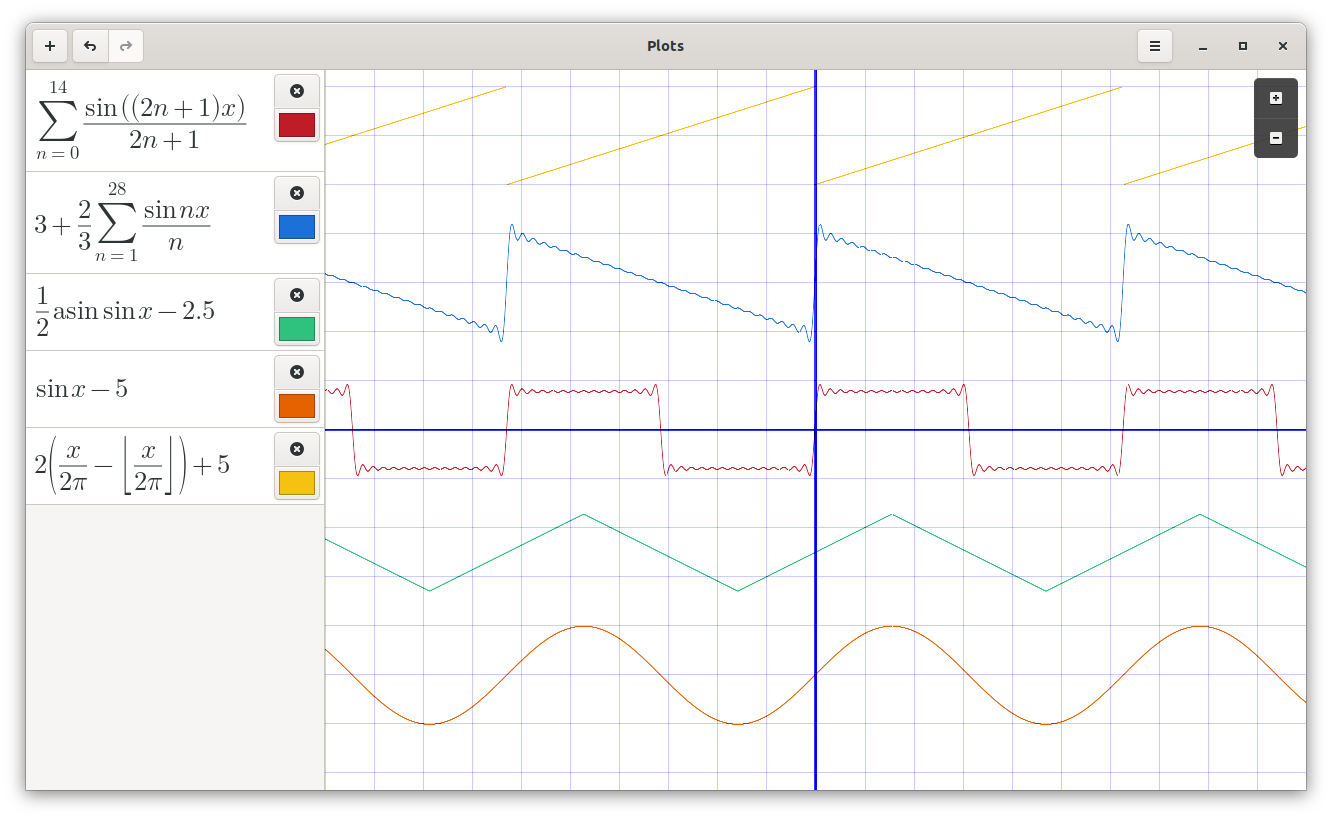
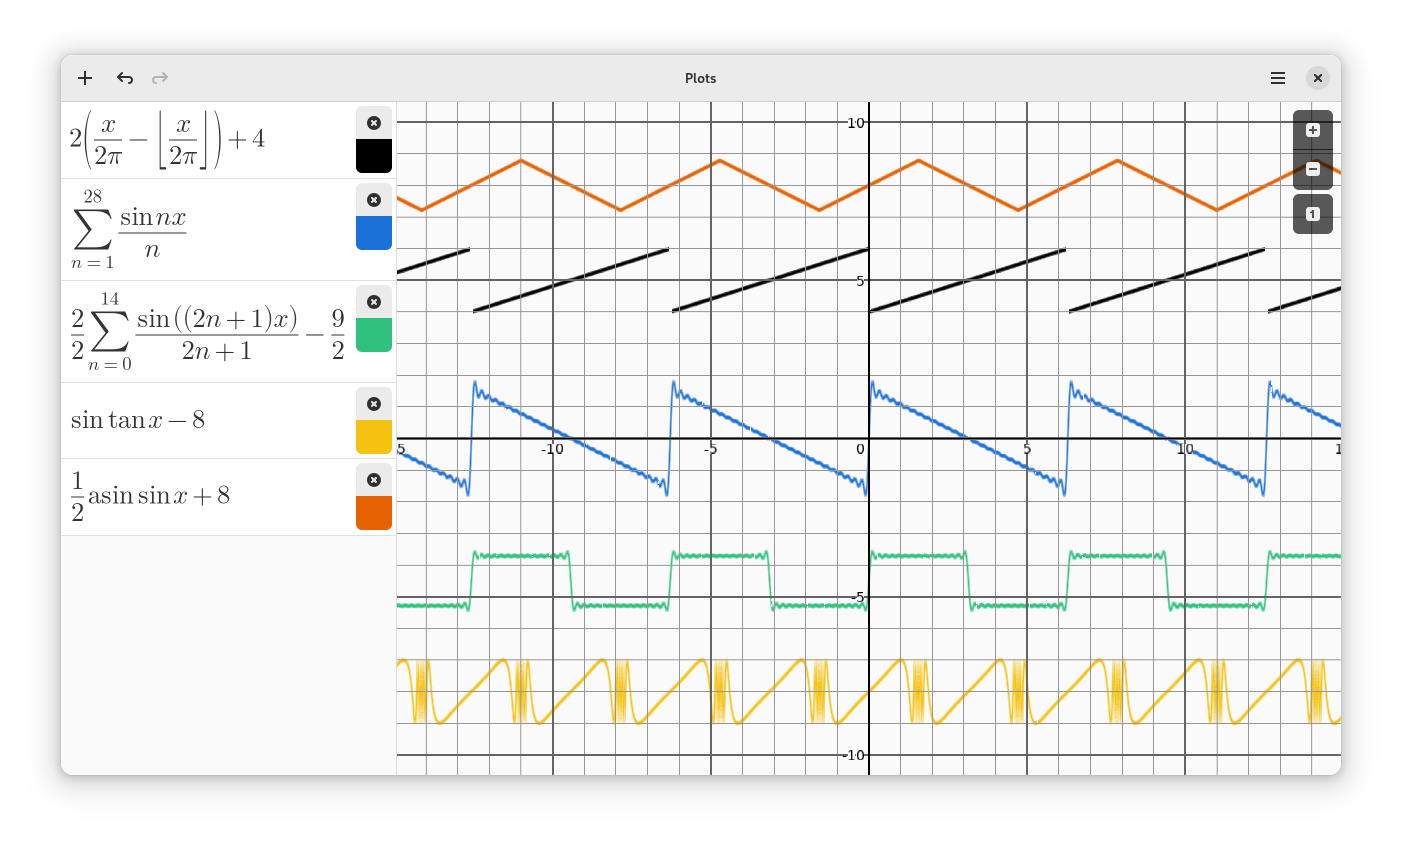
Update screenshots to show gtk4, polar and implicit plots

Changed region(s): [[0.0, 0.0, 0.985, 0.9768]]

diff --git a/README.md b/README.md
@@ -34,10 +34,9 @@ Note that this method does not currently install the icon, font or .desktop file
 
 ## Screenshots
 
-![Screenshot showing plot of sawtooth, square, triangle and sine waves](res/screenshot_fourier.png)
-![Screenshot showing plot of cot(x), sin(cot(x)) and sinh(x)](res/screenshot_trig_hyperbolic.png)
-![Screenshot showing plot of sin(x) and its Taylor approximation](res/screenshot_sine_taylor.png)
-![Screenshot showing variables with sliders](res/screenshot_variables.png)
+![Screenshot of Plots, displaying sawtooth, square, and triangle waves](res/screenshot_fourier.png)
+![Screenshot of Plots, displaying polar and implicit graphs](res/screenshot_polar_implicit.png)
+![Screenshot of Plots, displaying an implicit graph, a cosine, and variables with sliders, using the dark theme](res/screenshot_dark_sliders.png)
 
 ## Development
 Pull requests are welcome! The following sections detail how to run or build the project. The dependencies are in the [setup file](setup.py) and also the [Flatpak requirements file](flatpak-requirements.txt).
